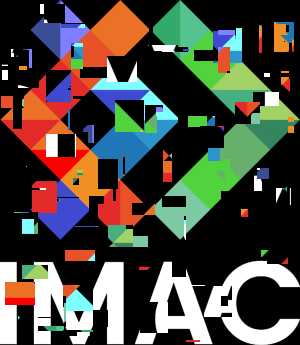
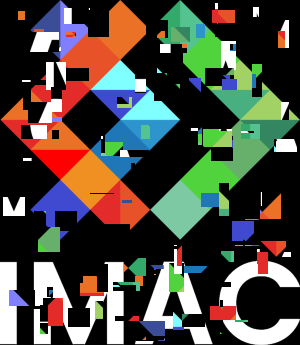
Update Tri de pixel

diff --git a/src/main.cpp b/src/main.cpp
@@ -1,5 +1,6 @@
 #include <sil/sil.hpp>
 #include "random.hpp"
+#include <algorithm>
 
 void keep_green_only(sil::Image& image)
 {
@@ -290,7 +291,6 @@ void rosace(sil::Image& image)
 
 }
 
-
 void mosaique(sil::Image& image)
 {
     int new_width = image.width() * 5;
@@ -360,6 +360,25 @@ void glitch(sil::Image& image)
                 std::swap(image.pixel(x1 + x,y1 + y), image.pixel(x2 + x,y2 + y));
             }
         }    
+    }
+}
+
+// Tri de pixels
+float brightness(glm::vec3 const&color){
+    float gray = color.r * 0.21 + color.g *0.72 + color.b *0.07;
+
+    return gray;
+}
+void pixel_sorting(sil::Image &image){
+    for (int i=0; (i + 70) < image.pixels().size(); i++)
+    {
+        if (random_int(0, 150) == 75){
+            std::sort(image.pixels().begin() + i, image.pixels().begin() + (i + 70), [](glm::vec3 const& color1, glm::vec3 const& color2)
+            {
+            return brightness(color1) > brightness(color2);
+            });
+            i = i + 70;
+        }
     }
 }
 
@@ -472,12 +491,16 @@ int main()
         image.save("output/mosaique_mirror.png");
     }
 
+    // {
+    //     sil::Image image{"images/logo.png"}; 
+    //     glitch(image); 
+    //     image.save("output/glitch.png");
+    // }
+
     {
         sil::Image image{"images/logo.png"}; 
-        glitch(image); 
-        image.save("output/glitch.png");
+        pixel_sorting(image); 
+        image.save("output/pixel_sorting.png");
     }
-
-
     
 }
